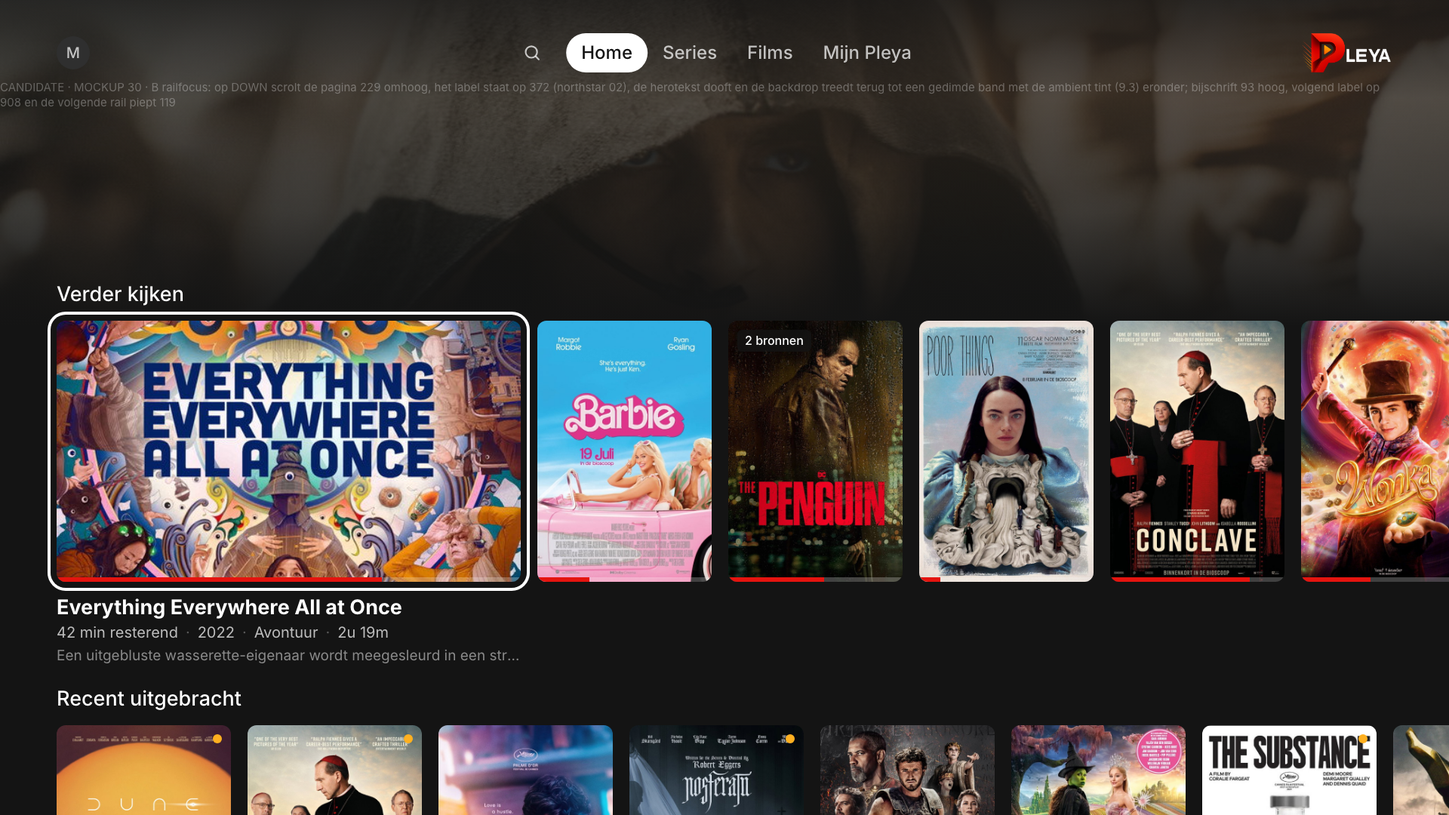
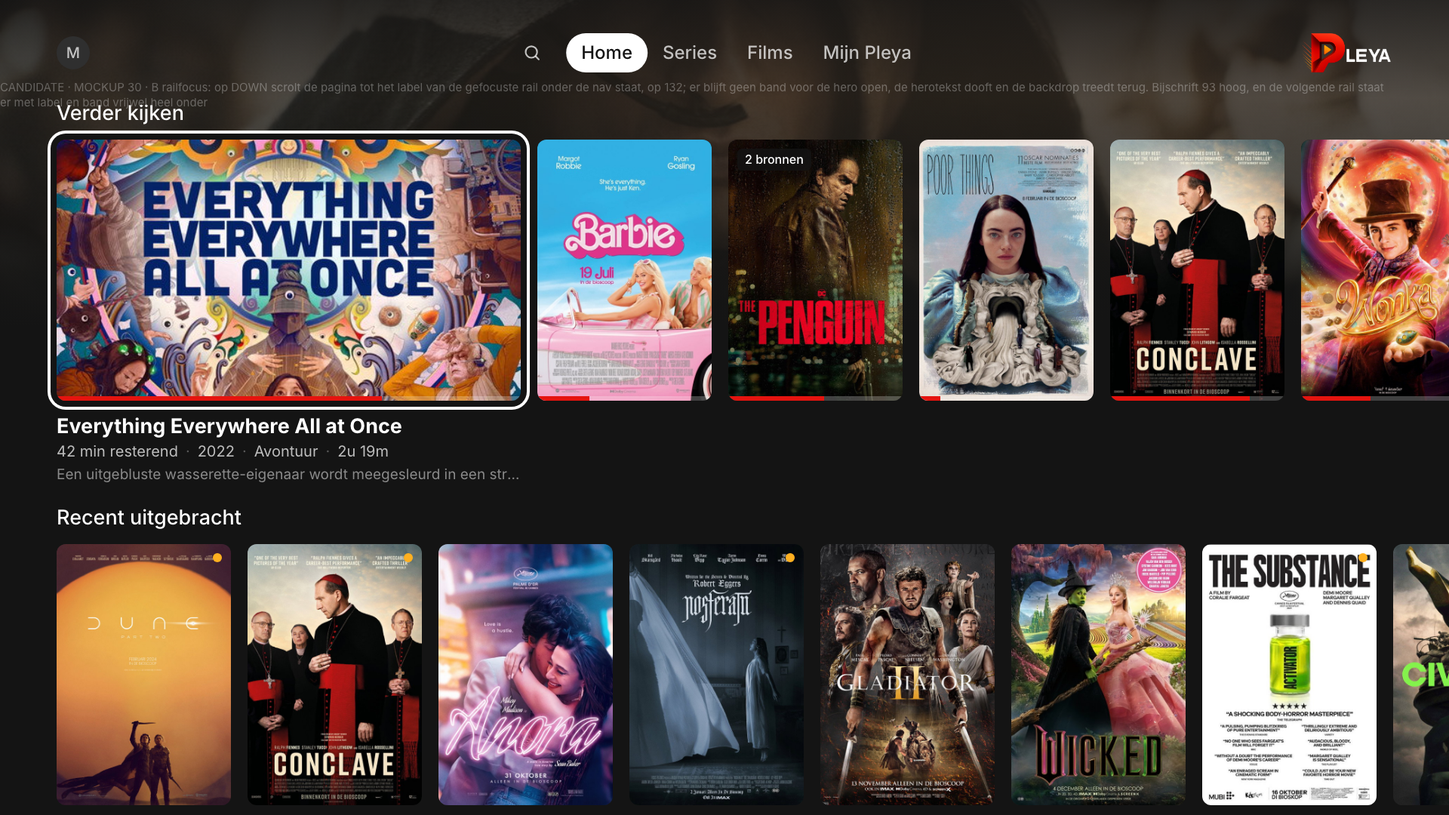
fix(tv): een gefocuste rail ankert onder de navbalk, zonder band voor de hero (HOME1)
Op de simulator las de 242 referentiepixels boven de gefocuste eerste rail als
een lege band. Dat anker komt uit northstar 02, waar het de zichtbare onderrand
van de billboardkaart was; full-bleed heeft die kaart weggenomen, dus het hield
ruimte vrij voor iets dat er niet meer is, terwijl een railsectie 524 hoog is.

rowFocusAnchor vervalt en rowTileScrollAlignment kent geen rij-index meer: elke
gefocuste rail zet zijn label onder de balk, de eerste en de diepere gelijk. De
volgende rail wint vier vijfde van zijn band. De test die het anker op 372
vastlegde eist nu de nul; mockup 30 B en E zijn opnieuw geschoten.

Bewijs: gerichte suites groen (77), scripts/ci_checks.sh exit 0, Pleya Verify
tvos.home.full-bleed PASS, en de simulator toont Verder kijken onder de balk met
Recent uitgebracht vrijwel heel eronder. SKIP_HOOKS wegens de wisselvallige
pre-commit hook, met ci_checks.sh als bewijs.

diff --git a/lib/widgets/tv/tv_unified_layout.dart b/lib/widgets/tv/tv_unified_layout.dart
@@ -1117,19 +1117,38 @@ class TvHomeLayout {
   /// How much of the first rail's artwork is on screen on the landing: 147
   /// reference px of the 346 band (mockup 30 A1, "de rail piept"). The subject
   /// of the backdrop stays whole above it; the rail becomes fully visible on
-  /// DOWN, when the feed scrolls to [rowFocusAnchor].
+  /// DOWN, when the feed scrolls the rail's label under the top navigation
+  /// ([rowTileScrollAlignment]).
   static const double firstRailPeek = 94;
 
   /// From the bottom of the CTA row to the label of the first rail: 40
   /// reference px.
   static const double heroTextRailGap = 26;
 
-  /// Where the label of the focused *first* rail lands, measured from the top
-  /// of the content box, once DOWN has scrolled the feed: 372 reference px on
-  /// screen (northstar 02), 242 inside the content box. The dimmed backdrop
-  /// stays visible above it. Deeper rails anchor at 0, under the top
-  /// navigation, so the rail below them is wholly on screen (mockup 30 C).
-  static const double rowFocusAnchor = 154;
+  /// The vertical scroll target for a tile in the Home feed, as the fraction
+  /// of the viewport its centre is scrolled to
+  /// (`FocusableWrapper.scrollAlignment`).
+  ///
+  /// **One anchor for every row: the focused rail's label sits under the top
+  /// navigation.** Northstar 02 anchors the *first* rail 372 reference px down
+  /// the screen, and that is what this used to do — but those 242 px under the
+  /// bar were the visible lower edge of the billboard *card*, and full-bleed
+  /// removed the card. Under the new composition they held room for nothing: a
+  /// rail section is 524 px, so a fifth of the page went to a backdrop the dim
+  /// had already taken the contrast out of, and on a dark still it read as an
+  /// empty band. Anchoring every row the same way returns that space — the next
+  /// rail gains four fifths of its band — and leaves one rule where there were
+  /// two. The hero is not lost by it: UP brings it back into view (P1), and it
+  /// is on screen throughout the scroll that gets here.
+  static double rowTileScrollAlignment(double viewportHeight, double scale) {
+    if (viewportHeight <= 0) return 0.5;
+    final labelToTileCentre =
+        (TvDiscoveryLayout.sectionTitleFontSize * TvDiscoveryLayout.metaLineHeight +
+                TvDiscoveryLayout.sectionHeaderGap) *
+            scale +
+        TvDiscoveryLayout.railBandHeight(scale) / 2;
+    return (labelToTileCentre / viewportHeight).clamp(0.0, 1.0);
+  }
 
   /// The hero block: everything the landing shows above the first rail's
   /// label. Derived rather than fixed so the peek is exactly [firstRailPeek]
@@ -1143,24 +1162,6 @@ class TvHomeLayout {
         TvDiscoveryLayout.railBandInset(scale) -
         firstRailPeek * scale,
   );
-
-  /// The vertical scroll target for a tile in row [index] of the Home feed,
-  /// as the fraction of the viewport its centre is scrolled to
-  /// (`FocusableWrapper.scrollAlignment`). Row 0 anchors its label at
-  /// [rowFocusAnchor]; every deeper row anchors its label at the top of the
-  /// content box. Expressed as a fraction because that is the wrapper's
-  /// contract; computed from the same tokens the rail is laid out with, so
-  /// the anchor is exact on any canvas rather than tuned to one.
-  static double rowTileScrollAlignment(int index, double viewportHeight, double scale) {
-    if (viewportHeight <= 0) return 0.5;
-    final labelToTileCentre =
-        (TvDiscoveryLayout.sectionTitleFontSize * TvDiscoveryLayout.metaLineHeight +
-                TvDiscoveryLayout.sectionHeaderGap) *
-            scale +
-        TvDiscoveryLayout.railBandHeight(scale) / 2;
-    final anchor = index == 0 ? rowFocusAnchor * scale : 0.0;
-    return ((anchor + labelToTileCentre) / viewportHeight).clamp(0.0, 1.0);
-  }
 
   /// Cap on the text column: 900 reference px (hoofdstuk 9.2 as revised).
   /// Wide enough for two lines of synopsis at hero size, narrow enough that

diff --git a/test/screens/tv/tv_content_feed_test.dart b/test/screens/tv/tv_content_feed_test.dart
@@ -42,7 +42,6 @@ import 'package:pleya/services/multi_server_manager.dart';
 import 'package:pleya/services/settings_service.dart';
 import 'package:pleya/theme/mono_theme.dart';
 import 'package:pleya/utils/external_ids.dart';
-import 'package:pleya/utils/layout_constants.dart';
 import 'package:pleya/utils/platform_detector.dart';
 import 'package:pleya/widgets/tv/tv_content_feed.dart';
 import 'package:pleya/widgets/tv/tv_content_row.dart';
@@ -945,7 +944,6 @@ void main() {
     );
 
     Rect feedRect(WidgetTester tester) => tester.getRect(find.byType(TvContentFeed));
-    double scaleOf(WidgetTester tester) => TvLayoutConstants.scaleOf(tester.element(find.byType(TvContentFeed)));
     Rect headerRect(WidgetTester tester, String title) => tester.getRect(find.widgetWithText(TvSectionHeader, title));
 
     testWidgets('the billboard spans the feed edge to edge and at least its full height', (tester) async {
@@ -967,18 +965,19 @@ void main() {
       expect(tile.bottom, greaterThan(feed.bottom), reason: 'A1: the first rail is not fully in view on the landing');
     });
 
-    testWidgets('DOWN puts the first rail label on the anchor of northstar 02', (tester) async {
+    testWidgets('DOWN out of the hero puts the first rail label under the top navigation', (tester) async {
       await bootHome(tester);
       heroNode(tester, 'tvHeroPlay').requestFocus();
       await tester.pump();
       await press(tester, LogicalKeyboardKey.arrowDown);
       await tester.pumpAndSettle();
       final feed = feedRect(tester);
+      // bootHome seeds no on-deck items, so the first row is Recently Released.
       final header = headerRect(tester, t.discover.recentlyReleased);
       expect(
         header.top - feed.top,
-        closeTo(TvHomeLayout.rowFocusAnchor * scaleOf(tester), 1.0),
-        reason: 'DEC-095 (3): the first rail anchors at 372 reference px with the dimmed backdrop above it',
+        closeTo(0, 1.0),
+        reason: 'DEC-095 (3): no band is held open for the hero — the focused rail sits at the top',
       );
     });
 
@@ -998,7 +997,7 @@ void main() {
       expect(card.top, lessThan(feed.top), reason: 'the picture itself did scroll with the list');
     });
 
-    testWidgets('deeper on the page the focused rail label anchors under the top navigation', (tester) async {
+    testWidgets('a rail deeper on the page anchors the same way, by the same rule', (tester) async {
       await bootHome(tester);
       final second = rows(tester)[2];
       tileNode(tester, second.hub.groups.first.groupId).requestFocus();
@@ -1008,7 +1007,7 @@ void main() {
       expect(
         header.top - feed.top,
         closeTo(0, 1.0),
-        reason: 'DEC-095 (4): once the hero is out of view a focused rail sits at the top of the content box',
+        reason: 'DEC-095 (4): one anchor for every row, so the rail below the focused one is wholly on screen',
       );
     });
   });

diff --git a/docs/assets/tvos-unified/src/pages/30-home-b.html b/docs/assets/tvos-unified/src/pages/30-home-b.html
@@ -35,13 +35,13 @@
 .rail-label.next { margin-top: 26px; }
 </style>
 <style>
-.bleed img { transform: translateY(-229px); opacity: .34; }
+.bleed img { transform: translateY(-469px); opacity: .34; }
 .bleed .scrim { background: linear-gradient(180deg, rgba(20,20,20,.72) 0%, rgba(20,20,20,.20) 12%, rgba(20,20,20,.45) 26%, var(--bg) 40%); }
 .bleed .tint { position: absolute; inset: 0; background: radial-gradient(120% 80% at 70% 0%, rgba(96,72,52,.55) 0%, rgba(20,20,20,0) 60%); opacity: .8; }
 </style>
 <div class="bleed"><img src="{{art:dune2-backdrop}}"><div class="tint"></div><div class="scrim"></div></div>
 {{nav:Home}}
-<div class="rails" style="top:372px">
+<div class="rails" style="top:132px">
   <div class="rail-label">Verder kijken</div>
   <div class="rb">
     <div class="c w focus"><img src="{{art:eeaao-poster}}"><div class="prog"><i style="width:70%"></i></div></div>
@@ -64,4 +64,4 @@
     <div class="c "><img src="{{art:civilwar-poster}}"></div>
   </div>
 </div>
-<div class="note">CANDIDATE · MOCKUP 30 · B railfocus: op DOWN scrolt de pagina 229 omhoog, het label staat op 372 (northstar 02), de herotekst dooft en de backdrop treedt terug tot een gedimde band met de ambient tint (9.3) eronder; bijschrift 93 hoog, volgend label op 908 en de volgende rail piept 119</div>
+<div class="note">CANDIDATE · MOCKUP 30 · B railfocus: op DOWN scrolt de pagina tot het label van de gefocuste rail onder de nav staat, op 132; er blijft geen band voor de hero open, de herotekst dooft en de backdrop treedt terug. Bijschrift 93 hoog, en de volgende rail staat er met label en band vrijwel heel onder</div>

diff --git a/lib/widgets/tv/tv_content_feed.dart b/lib/widgets/tv/tv_content_feed.dart
@@ -498,11 +498,11 @@ class TvContentFeedState extends State<TvContentFeed> with TvDiscoveryActivation
                                 whenExhausted: heroGroups.isEmpty ? null : _focusHeroFromFirstRow,
                               ),
                               onNavigateDown: _rowStack.down(i),
-                              // DEC-095 (3)/(4): the first rail anchors its label
-                              // at 372 reference px with the dimmed backdrop above
-                              // it; every deeper rail anchors under the bar, so
-                              // the rail below it is wholly on screen.
-                              tileScrollAlignment: TvHomeLayout.rowTileScrollAlignment(i, viewportHeight, scale),
+                              // DEC-095 (3)/(4): a focused rail puts its label
+                              // under the top navigation, first row and deeper
+                              // rows alike, so the rail below it is wholly on
+                              // screen and no band is held open for the hero.
+                              tileScrollAlignment: TvHomeLayout.rowTileScrollAlignment(viewportHeight, scale),
                               automationRailIndex: i,
                             ),
                           ),

diff --git a/docs/assets/tvos-unified/src/pages/30-home-e.html b/docs/assets/tvos-unified/src/pages/30-home-e.html
@@ -35,7 +35,7 @@
 .rail-label.next { margin-top: 26px; }
 </style>
 <style>
-.bleed img { transform: translateY(-229px); opacity: .34; }
+.bleed img { transform: translateY(-469px); opacity: .34; }
 .bleed .scrim { background: linear-gradient(180deg, rgba(20,20,20,.72) 0%, rgba(20,20,20,.20) 12%, rgba(20,20,20,.45) 26%, var(--bg) 40%); }
 .bleed .tint { position: absolute; inset: 0; background: radial-gradient(120% 80% at 70% 0%, rgba(96,72,52,.55) 0%, rgba(20,20,20,0) 60%); opacity: .8; }
 .rails { opacity: .35; }
@@ -53,7 +53,7 @@
 </style>
 <div class="bleed"><img src="{{art:dune2-backdrop}}"><div class="tint"></div><div class="scrim"></div></div>
 {{nav:Home|dim}}
-<div class="rails" style="top:372px">
+<div class="rails" style="top:132px">
   <div class="rail-label">Verder kijken</div>
   <div class="rb">
     <div class="c w"><img src="{{art:eeaao-poster}}"><div class="prog"><i style="width:70%"></i></div></div>

diff --git a/docs/DECISIONS.md b/docs/DECISIONS.md
@@ -1835,5 +1835,5 @@ en legt het oude gedrag vast: na een volledige-venster push is niets in de balk 
 **Date:** 2026-09-04
 **Status:** accepted
 **Context:** HOME1 in `docs/tvos-fysieke-correctieronde.md`. Hoofdstuk 9.2 en 33.1 binden de hero als afgeronde kaart ín de pagina, 1770 bij 718 op inset 75, "nooit full bleed". Die kaart is 2,465:1 en toont 72 procent van een 16:9-backdrop; HERO1 (DEC-094) bepaalde wélke 72 procent, maar Michel wilde op 4 september het hele item in beeld: "volgens mij is in de hero namelijk nog niet hele item goed in beeld". Mockup 29 tekende vier richtingen (A northstar op maat, B kaart 2,0:1, C backdrop heel binnen de kaart, D full-bleed) en hij koos D. De eerste uitwerking van mockup 30 zette de railband op 654 achter de schermvullende backdrop en sneed het gezicht van het onderwerp af bij de mond; Michel: "dan moet wel het item goed in beeld zijn en niet half worden afgesneden door de volgende carroussel die erover heen staat. Dat neemt het effect van de hero weg." Vier landing-opties zijn getekend (`30-home-a1` tot en met `a4`): de rail piept, het beeld past rechts met geblurde vulling, alleen het label, en een mini-rail. Hij koos A1 en gaf akkoord op B tot en met E. Tegelijk is de rest van de pagina in de simulator gemeten: elk gefocust raillabel staat op ongeveer 372 referentiepixels met zwart erboven, het bijschrift reserveert twee regels synopsis, en samen met het volgende label past er precies één rail per scherm. Nieuw-markeringen zijn tekstpillen waar hoofdstuk 34 en 33.6 een amberpunt vragen (audit, divergentie 5), het raillabel "Recently Added Shows" staat in het Engels omdat `nl.i18n.json` de sleutel `discover.latestShows` mist (I18N5), en de topnav dimt niet mee onder een overlay (audit, divergentie 13).
-**Decision:** (1) **De hero is full-bleed.** De backdrop staat op 16:9 schermvullend achter de topnav en de herotekst; op een 16:9-bron is er geen uitsnede meer, en voor een bron in een andere ratio blijft `TvHomeLayout.heroArtAlignment` uit DEC-094 de enige eigenaar van de uitsnede. De billboardkaart met ring, radius en schaduw uit 9.2 en 33.1 vervalt. Twee scrims: horizontaal van links voor de tekstkolom, verticaal boven voor de nav en onder naar de paginagrond, zodat de posters van de eerste rail op de grond staan en niet op het beeld. (2) **De landing is A1, de rail piept.** Op de 1080-referentie staat de tekstkolom op 579 tot 840 (titel 56, meta, synopsis van twee regels, CTA's van 60), het label van de eerste rail op 880 en de posters piepen 147 van 346 boven de onderrand. Het onderwerp van de backdrop staat daarmee heel in beeld; de eerste rail staat dat niet meer, en dat is de prijs die 9.2 hier betaalt. De rustfocus van 7.1 blijft de primaire CTA. (3) **DOWN scrolt tot het anker van northstar 02.** Op DOWN uit de CTA's scrolt de feed tot het label van de eerste rail op 372 staat, de herotekst dooft en de backdrop blijft gedimd achter de band staan; hij verandert daar niet (7.3, de rijfocus kiest de hero niet, en 9.6 pauzeert de rotatie zolang een rij focus heeft). (4) **Dieper op de pagina ankert het gefocuste label onder de nav.** Zodra de hero uit beeld is staat het label van de gefocuste rail op 132 in plaats van op 372, zodat de volgende rail er heel onder staat. (5) **Het bijschrift wordt korter.** Achttien referentiepixels boven de titel, titel 27, meta 20 met puntspatiëring, synopsis op één regel met ellipsis, 26 naar het volgende label. Dit amendeert DEC-087's "titel, meta en synopsis eronder" van twee regels naar één; de band 346, de 615-kaart en de 231-buren blijven. (6) **Styling en labels.** Nieuw is een amberpunt van 12 rechtsboven op de kaart, geen tekstpil; het vinkje is de witte schijf met donkere tick uit 33.5; `discover.latestShows` krijgt zijn Nederlandse vertaling "Recent toegevoegde series"; de topnav dimt naar 0,35 zodra een overlay open is. De profielchip toont de initiaal van het actieve profiel wanneer er geen beeld is, niet het merk. (7) **De poster-only fallback van 9.4 blijft** en werkt onder full-bleed als dezelfde poster sterk geblurd en donker als schermvulling met de scherpe poster als eiland rechts (`30-home-d`). Mockup 30 A1, B, C, D en E zijn bindend voor de compositie; `01-home.jpg` en `02-home-rail-focus.jpg` blijven bindend voor wat ze daarnaast vastleggen en krijgen een afwijkingsnotitie.
+**Decision:** (1) **De hero is full-bleed.** De backdrop staat op 16:9 schermvullend achter de topnav en de herotekst; op een 16:9-bron is er geen uitsnede meer, en voor een bron in een andere ratio blijft `TvHomeLayout.heroArtAlignment` uit DEC-094 de enige eigenaar van de uitsnede. De billboardkaart met ring, radius en schaduw uit 9.2 en 33.1 vervalt. Twee scrims: horizontaal van links voor de tekstkolom, verticaal boven voor de nav en onder naar de paginagrond, zodat de posters van de eerste rail op de grond staan en niet op het beeld. (2) **De landing is A1, de rail piept.** Op de 1080-referentie staat de tekstkolom op 579 tot 840 (titel 56, meta, synopsis van twee regels, CTA's van 60), het label van de eerste rail op 880 en de posters piepen 147 van 346 boven de onderrand. Het onderwerp van de backdrop staat daarmee heel in beeld; de eerste rail staat dat niet meer, en dat is de prijs die 9.2 hier betaalt. De rustfocus van 7.1 blijft de primaire CTA. (3) **Eén anker voor elke rij: het label van de gefocuste rail staat onder de navbalk.** Op DOWN uit de CTA's scrolt de feed daarheen, de herotekst dooft en de backdrop treedt terug; er blijft geen band voor de hero open. Northstar 02 zet het label van de eerste rail op 372, en die 242 referentiepixels onder de balk waren daar de zichtbare onderrand van de billboardkaart. Full-bleed heeft die kaart verwijderd, dus onder de nieuwe compositie hielden ze ruimte vrij voor iets dat er niet meer is: een railsectie is 524 hoog, dus bijna de helft van een rij ging op aan een backdrop waar de dim de contrasten al uit had gehaald, en op een donker beeld las dat als een lege band. Michel heeft dat op 4 september op de simulator gezien en gekozen om het anker helemaal weg te halen. De hero blijft bereikbaar: UP brengt hem terug in beeld (P1), en tijdens de scroll ernaartoe is hij zichtbaar; hij verandert daar niet (7.3, de rijfocus kiest de hero niet, en 9.6 pauzeert de rotatie zolang een rij focus heeft). (4) **Dieper op de pagina ankert het gefocuste label onder de nav.** Zodra de hero uit beeld is staat het label van de gefocuste rail op 132 in plaats van op 372, zodat de volgende rail er heel onder staat. (5) **Het bijschrift wordt korter.** Achttien referentiepixels boven de titel, titel 27, meta 20 met puntspatiëring, synopsis op één regel met ellipsis, 26 naar het volgende label. Dit amendeert DEC-087's "titel, meta en synopsis eronder" van twee regels naar één; de band 346, de 615-kaart en de 231-buren blijven. (6) **Styling en labels.** Nieuw is een amberpunt van 12 rechtsboven op de kaart, geen tekstpil; het vinkje is de witte schijf met donkere tick uit 33.5; `discover.latestShows` krijgt zijn Nederlandse vertaling "Recent toegevoegde series"; de topnav dimt naar 0,35 zodra een overlay open is. De profielchip toont de initiaal van het actieve profiel wanneer er geen beeld is, niet het merk. (7) **De poster-only fallback van 9.4 blijft** en werkt onder full-bleed als dezelfde poster sterk geblurd en donker als schermvulling met de scherpe poster als eiland rechts (`30-home-d`). Mockup 30 A1, B, C, D en E zijn bindend voor de compositie; `01-home.jpg` en `02-home-rail-focus.jpg` blijven bindend voor wat ze daarnaast vastleggen en krijgen een afwijkingsnotitie.
 **Consequences:** Hoofdstuk 9.1, 9.2, 7.1 en 33.1/33.2 zijn aangepast; 9.3 en 9.6 staan er ongewijzigd naast en zijn nagelopen. De ambient tint van 9.3 blijft in fase 9 (`docs/tvos-unified-fase8-ambient-background-deviation.md`, goedgekeurd 1 september): mockup 30 B en C tekenen hem als eindstaat, de HOME1-bouwronde laat de paginagrond vlak en haalt hem niet naar voren. De code verandert nog niet; de bouw is een eigen ronde. Wat die ronde raakt: `TvContentFeed` legt de carousel niet meer in een `Padding` met `SizedBox` op `heroHeight`, maar schermvullend achter de kolom met de rijen als overlay en een scroll die op DOWN naar het anker gaat; `TvHeroBillboardCard` verliest ring, radius en schaduw en krijgt de twee scrims; `TvDiscoveryLayout.metaSynopsisMaxLines` gaat naar 1 en `railMetaGap` en de labelmarges volgen de maten hierboven; `NewContentBadge` krijgt op de TV-kaart de puntvorm; `nl.i18n.json` krijgt `latestShows`; `TvTopNavigation` krijgt de dim; de initiaal zonder profielbeeld tekent `ProfileAvatar` al, het merk verschijnt alleen zonder profiel. De bijschriftfonts volgen mockup 30 mee (titel 27, meta 20, synopsis 19 referentiepixels, raillabel 27 in plaats van 31,5: audit divergentie 6), en dat raakt ook de Films- en Serieslanding en Zoeken, die dezelfde rail tekenen. Voor de nav bovenop de content wisselt de shell zijn `Column` voor een `CustomMultiChildLayout` die de balk eerst uitmeet en als laatste tekent, en publiceert de gemeten bandhoogte via `TvShellSurface` zodat de feed de backdrop er precies achter kan trekken. Negatieve controle voor de bouwronde: een widgettest die `TvContentFeed` op het canonieke canvas pompt en eist dat de hero de volle contentbreedte en -hoogte inneemt zonder pagina-inset, dat het label van de eerste rail in de landing zichtbaar is met de band gedeeltelijk onder de viewport, en dat na DOWN het label op het anker staat; rood op de huidige code. Wat dit besluit niet doet: de featured selectie (9.5), het carouselcontract (9.6) en de late-data-regels (9.7) veranderen niet. Geaccepteerd door Michel op 4 september 2026: "Ik denk a 1 de rail piept en btme akkoord".

diff --git a/docs/tvos-fysieke-correctieronde.md b/docs/tvos-fysieke-correctieronde.md
@@ -2175,13 +2175,13 @@ en dat is een keuze over de landing. Vier landing-opties, alle met het onderwerp
   posters van 133 breed zijn op een TV klein, en de groei is een layoutwissel bij focus.
 
 De overige standen zijn onafhankelijk van die keuze. **B, railfocus:** de pagina scrolt tot
-het label op 372 staat (het anker van northstar 02), de herotekst dooft, de backdrop treedt
+het label onder de navbalk staat, de herotekst dooft, de backdrop treedt
 terug tot een gedimde band en gaat over in de ambient tint van 9.3; band 346 met 615-kaart en
 231-buren, bijschrift 18 boven, titel 27, meta 20 mét puntspatiëring (in 29 D2/D4 miste
 `.cap .m` de `.sep`-marge), synopsis op één regel, 26 naar het volgende label op 908, en de
 volgende rail piept 119. **C, dieper op Home:** het gefocuste label ankert onder de nav op
-132 in plaats van op 372, waardoor de volgende rail er heel onder staat (721 tot 1067) in
-plaats van alleen zijn label; de app zet vandaag elk gefocust label op 372 met zwart erboven,
+132, waardoor de volgende rail er heel onder staat (721 tot 1067) in plaats van alleen zijn
+label; de app zette elk gefocust label op 372 met zwart erboven,
 en dat is waar de "één rail per scherm" vandaan komt. Verder de ambient tint, nieuw als
 amberpunt (audit 5), het vinkje als witte schijf, en "Recent toegevoegde series" in het
 Nederlands (I18N5). **D, alleen poster (9.4):** dezelfde poster sterk geblurd en donker als
@@ -2196,7 +2196,7 @@ GOEDGEKEURD.
 
 **Besluit van Michel op 4 september, op mockup 30:** "Ik denk a 1 de rail piept en btme
 akkoord." Vastgelegd als DEC-095: de hero full-bleed met de rail die eronder piept, het anker
-op 372 op DOWN en op 132 dieper op de pagina, het bijschrift met één regel synopsis, de
+onder de navbalk op DOWN en dieper op de pagina, het bijschrift met één regel synopsis, de
 amberpunt, de Nederlandse labels en de gedimde topnav. Hoofdstuk 9.1, 9.2 en 7.1 zijn herzien,
 9.3 en 9.6 nagelopen, 33.1 en 33.2 dragen een afwijkingsnotitie. De ambient tint van 9.3 blijft
 fase 9 en gaat niet mee in de bouw. De bouw is een eigen ronde met de negatieve controle uit
@@ -2221,7 +2221,7 @@ volle hoogte en de verticale scrim voor nav en grond. Op rijfocus dooft de tekst
 `TvHeroDimVeil` zich schermvast over de laag; in de eerste build reisde die sluier met het beeld
 mee en was boven het anker alles grond, de simulator liet dat zien en de test op de sluierpositie
 is daarna toegevoegd. De rails krijgen per rij een scroll-anker via
-`TvHomeLayout.rowTileScrollAlignment`: rij nul op 372, elke diepere rij onder de nav. Het
+`TvHomeLayout.rowTileScrollAlignment`: elke rij zet zijn label onder de nav. Het
 bijschrift kromp naar één regel synopsis en de mockupmaten, het raillabel naar 27
 referentiepixels (audit divergentie 6). De shell wisselde zijn `Column` voor een
 `CustomMultiChildLayout` dat de balk eerst uitmeet en als laatste tekent, en publiceert de
@@ -2243,6 +2243,17 @@ band na DOWN, de tweede rail heel in beeld na de tweede DOWN, en de hero terug i
 Simulator-screenshots van landing, CTA-focus, railfocus met gedimde backdrop, dieper en het
 contextmenu met gedimde nav zijn bekeken en kloppen met mockup 30 A1, B, C en E; de
 posterfallback (D) is alleen als widgetgeometrie gebouwd en niet in de simulator gezien.
+
+**Correctie op de eerste bouw, dezelfde dag.** Op de simulator las de band boven de gefocuste
+rail als leegte: het anker van northstar 02 hield 242 referentiepixels onder de balk vrij, en
+die ruimte was daar de zichtbare onderrand van de billboardkaart die full-bleed net had
+weggenomen. Op een donkere still bleef er een zwarte strook over van een vijfde van de pagina.
+Drie richtingen zijn voorgelegd: het anker weg, het anker halveren, of de dim verzwakken zodat
+de strook als beeld leest. Michel koos eerst halveren en daarna alsnog het anker helemaal weg,
+zoals geadviseerd. `rowFocusAnchor` bestaat niet meer; `rowTileScrollAlignment` kent geen
+rij-index meer en zet elk gefocust raillabel onder de balk. De twee ankerregels zijn er één
+geworden, de volgende rail wint vier vijfde van zijn band, en mockup 30 B en E zijn opnieuw
+geschoten op die compositie. De test die het anker op 372 vastlegde eist nu de nul.
 
 Wat open blijft. Hardwarebewijs op de Apple TV, zoals bij HERO1: het anker van de scrim en de
 leesbaarheid van de tekst over echt artwork zijn daar te toetsen. De ambient tint van 9.3 is

diff --git a/docs/sessions/2026-09-04.md b/docs/sessions/2026-09-04.md
@@ -16,3 +16,51 @@
 
 ---
 
+## 14:49 tot 16:22 (1u 33m)
+
+**Start:** # Pleya tvOS fysieke correctieronde # SONNET MAIN # Volgend masterlist-item: LIB3 # # LIB3: # "TV-tabs dragen nog de oude rode onderstreping
+
+**Commits:**
+
+- 80934b9 Merge fix/tvos-art1: Pleya Unified TV en de fysieke tvOS-correctieronde
+- 8b05330 docs: STATUS en sessielogboek bijwerken tot 4 september
+- d0fdf5a docs: releasenotes bijwerken
+- 2657eba docs(tv): LIB4, de Bibliotheken-pagina buiten de kiezer staat nog op de oude layout
+- 57a40d2 docs(tv): sluit LIB3, en zet de segmented rul als TOK3 open
+- 3e9d31b fix(tvos): geen rode rul meer onder de open tab op TV (LIB3)
+
+**Stats:** 257 turns, 514 in / 190,805 out tokens, **$34.89**
+
+---
+
+## 16:22 tot 19:12 (2u 49m)
+
+**Start:** # Pleya tvOS fysieke bevestigingsronde # SONNET MAIN # Dit is GEEN bouwronde. Dit is de ronde waarin Michel voor de televisie zit # en jij o
+
+**Bestanden (2):**
+
+- `.claude/skills/pleya-tvbuild/SKILL.md`
+- `docs/tvos-fysieke-correctieronde.md`
+
+**Commits:**
+
+- c680f09 docs(tv): HOME1 verduidelijkt, full-bleed hero blijft, de rails eronder worden geoptimaliseerd (mockup 30)
+- b17cd90 docs(tv): HOME1 herzien, geen full-bleed maar de huidige opzet geoptimaliseerd (mockup 30 volgt)
+- 6dc675f docs(tv): HOME1, full-bleed gekozen en de hele pagina uitgetekend als 29 D1 tot en met D4
+- 64b0105 docs(tv): HOME1, Home naast de northstar gemeten en mockup 29 in vier richtingen
+- 0ad49ec fix(tv): de titelband van de hero past twee regels, niet alleen het logo (HERO2)
+- fbd403d docs(tv): HERO1 draagt d4ec1fe, build 249 staat op de Apple TV
+- d4ec1fe fix(tv): de hero vraagt artwork in de bronratio aan, zodat de widget de uitsnede bezit (HERO1)
+- 039abc1 docs(tv): DEC-093 accepted, de catalogusacties in een inklapbare rail
+- ac62682 docs(tv): CAT5, de gekozen filters in de ingeklapte stand rechtsboven
+- 8ab834d docs(tv): CAT5, de filterrail ingeklapt en uitgeklapt als mockup 28 D1 en D2
+- 942ab67 docs(tv): DEC-092 accepted, spec op bronbeheer, CAT5 met mockup 28
+- a7092e1 docs(tv): LIB7 en DEC-092, Bibliotheken wordt bronbeheer, met mockup 27
+- 2433f74 docs(tv): mockup 26 Bibliotheken in negen states, de mockupbron in git, en HERO1 als open bevinding
+- fc14956 docs(tv): simulatorronde 4 september, plus LIB5 en LIB6
+- 424c43e chore: elke toestelbuild krijgt een eigen buildnummer, en build 248 voor de Apple TV
+
+**Stats:** 561 turns, 21,196 in / 791,428 out tokens, **$142.31**
+
+---
+

diff --git a/docs/tvos-unified-experience.md b/docs/tvos-unified-experience.md
@@ -585,8 +585,8 @@ instant of zeer kort; focus blijft zichtbaar maar zonder bewegende scale waar no
 │  Verder kijken                                               │  label 880
 │ [ poster ][ poster ][ poster ][ poster ][ poster ][ poster ] │  piept 147 van 346
 └──────────────────────────────────────────────────────────────┘
-DOWN: de feed scrolt tot "Verder kijken" op 372 staat (33.2), de herotekst
-dooft, het beeld blijft gedimd achter de band; daaronder de railstapel van 17.
+DOWN: de feed scrolt tot "Verder kijken" onder de balk staat, de herotekst
+dooft en het beeld treedt terug; daaronder de railstapel van 17.
 ```
 
 ### 9.2 Hero-maat
@@ -603,7 +603,8 @@ zodat de eerste rail op de grond staat. Tekstkolom op inset 75, maximaal circa 9
 579 tot 840 op de 1080-referentie: titel of clearlogo, metaregel, synopsis van maximaal twee
 regels, CTA's. Het label van de eerste rail staat op 880 en de posters van die rail piepen 147
 van hun 346 boven de onderrand. **De eerste rail staat in de landing niet heel in beeld**; hij
-komt heel in beeld op DOWN, wanneer de feed scrolt tot het label op 372 staat. Het onderwerp van
+komt heel in beeld op DOWN, wanneer de feed scrolt tot het label van die rail onder de navbalk
+staat. Het onderwerp van
 de backdrop staat daardoor wel heel in beeld, en dat is de keuze die hier gemaakt is.
 
 ### 9.3 Ambient background
@@ -2344,7 +2345,9 @@ sectiekop peekt onderaan. Focusverlies op de hero dooft zijn tekst; de topnav bl
 
 > **Afwijking, [DEC-095](DECISIONS.md#dec-095) (2026-09-04).** De "onderste strook met
 > afgeronde onderhoeken" is de gedimde full-bleed backdrop geworden, zonder hoeken; het anker van
-> het raillabel (372) en het doven van de herotekst blijven. Het metablok onder de gefocuste kaart
+> het doven van de herotekst blijft; het anker van het raillabel op 372 vervalt, omdat de 242
+> pixels onder de balk de onderrand van de kaart waren en die kaart er niet meer is. Een gefocuste
+> rail staat nu onder de balk, de eerste en de diepere gelijk. Het metablok onder de gefocuste kaart
 > krijgt één regel synopsis in plaats van twee, en dieper op de pagina ankert het gefocuste label
 > onder de topnav. Mockup 30 B en C tekenen beide standen.
 
